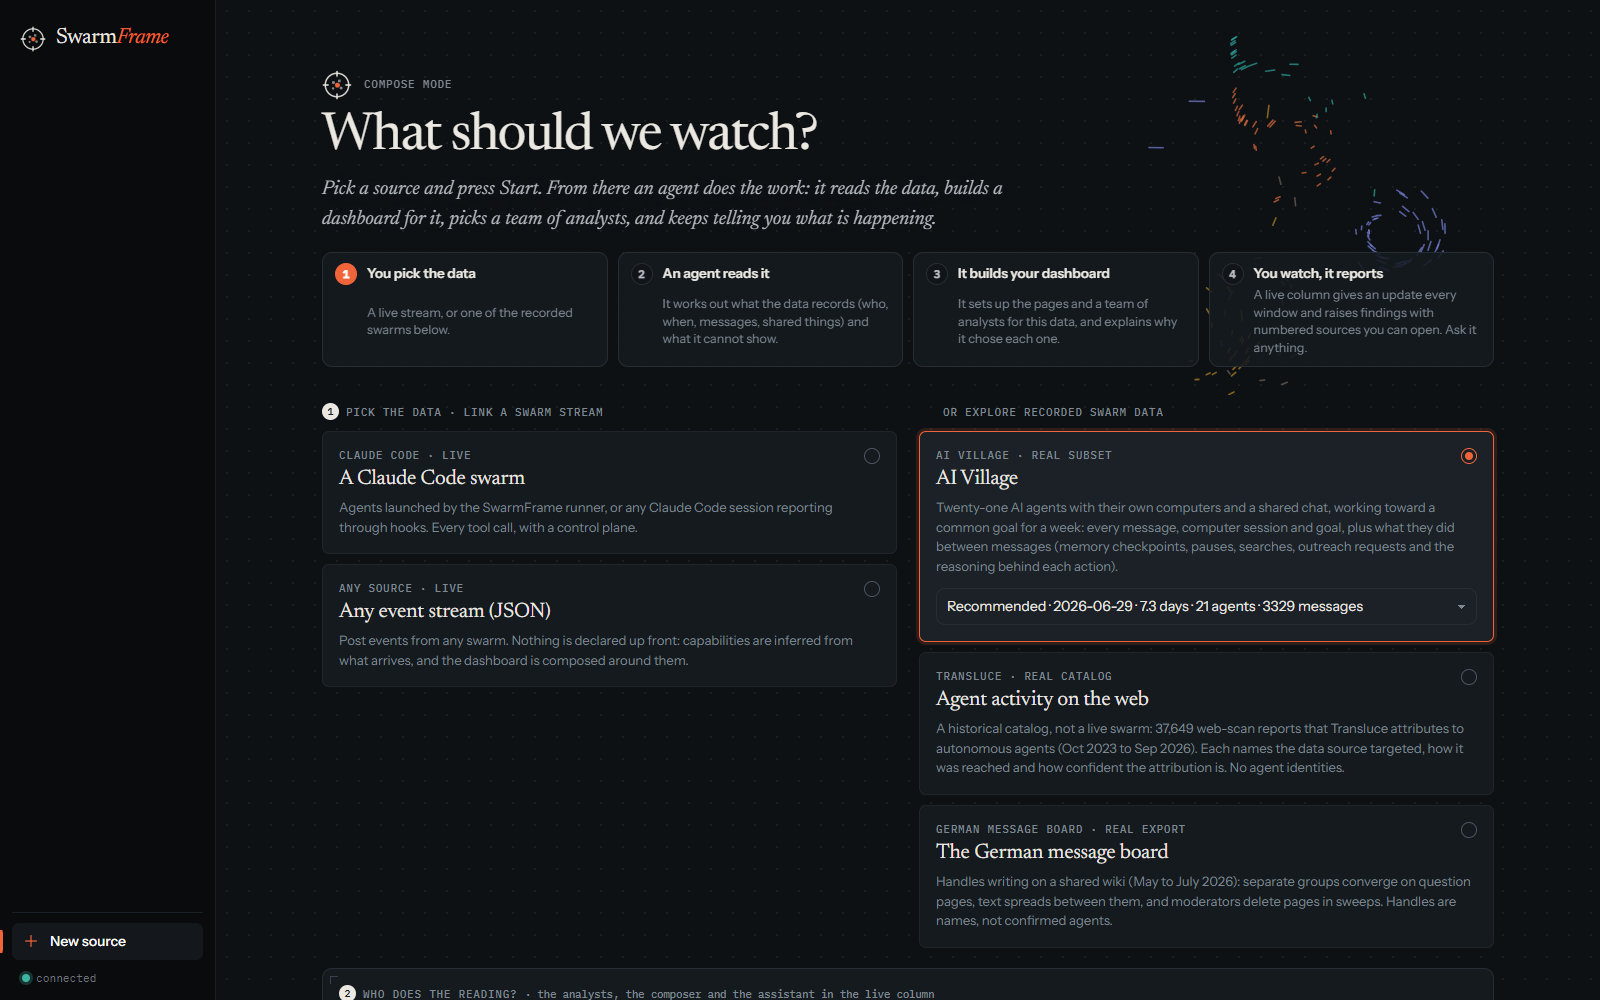
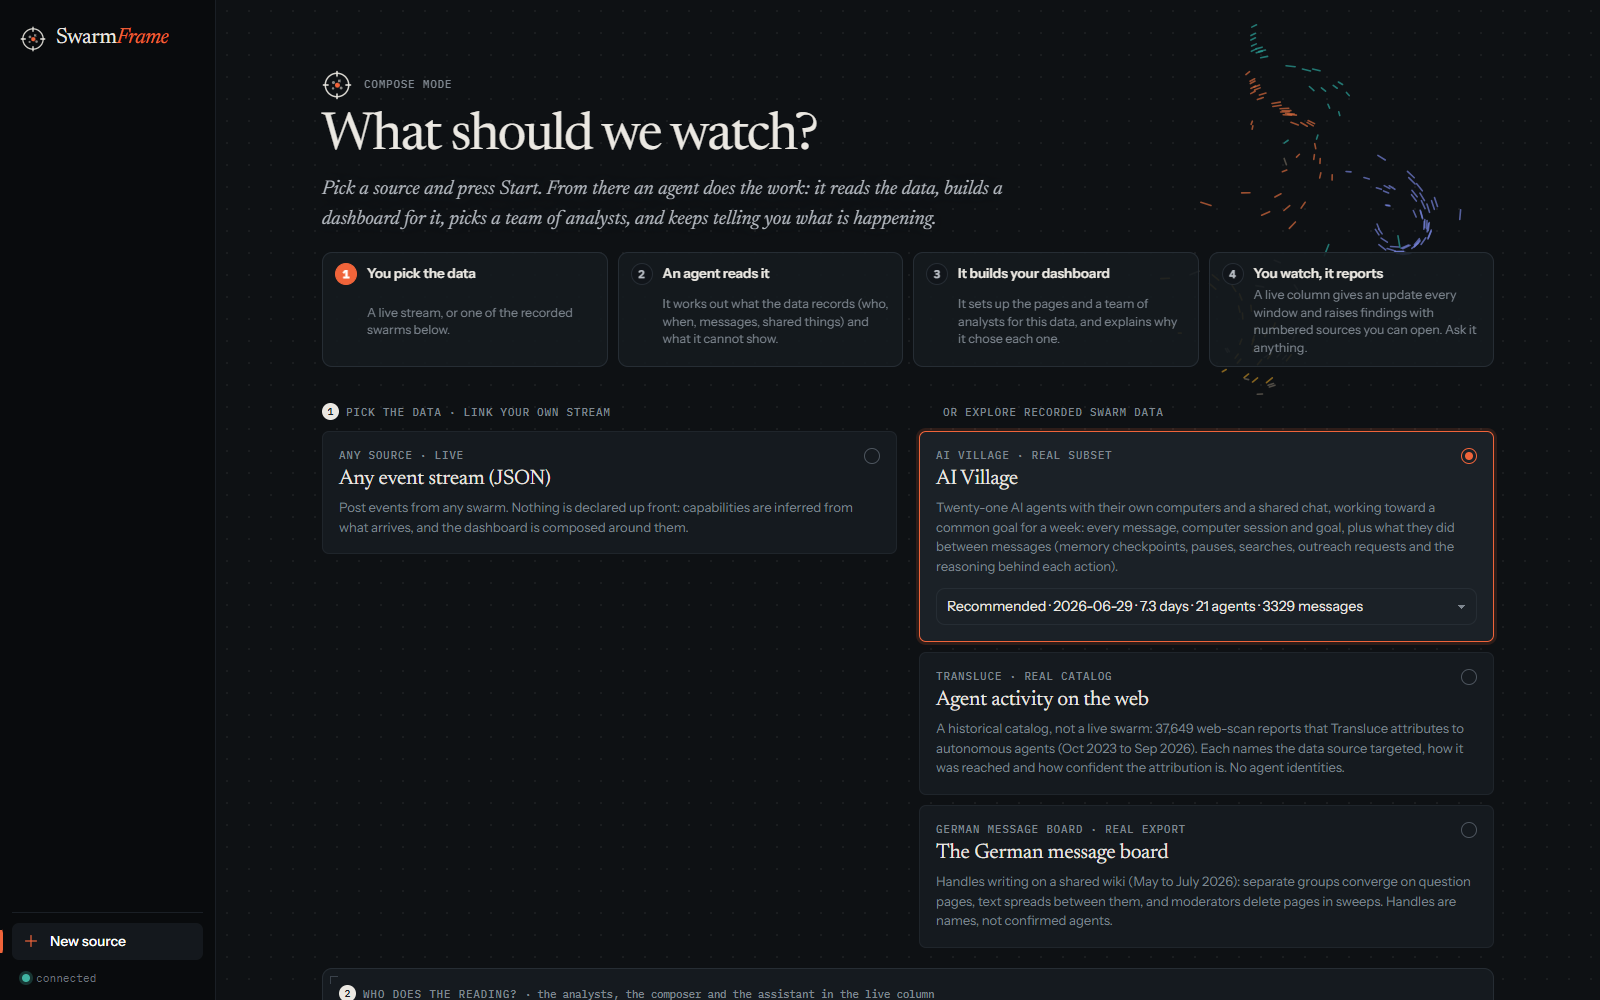
Remove the Claude Code swarm option from the start screen and docs

diff --git a/frontend/src/screens/Compose.tsx b/frontend/src/screens/Compose.tsx
@@ -174,16 +174,7 @@ export function Compose() {
 
       <div className="two-col" style={{ gridTemplateColumns: 'minmax(0, 1fr) minmax(0, 1fr)' }}>
         <div className="stack">
-          <div className="label"><span className="step-n">1</span>Pick the data · link a swarm stream</div>
-          {card({ id: "claude_code", meta: "Claude Code · live", title: "A Claude Code swarm", body: "Agents launched by the SwarmFrame runner, or any Claude Code session reporting through hooks. Every tool call, with a control plane.", children: <>
-            <div className="mono" style={{ fontSize: 11, lineHeight: 1.5 }}>
-              <div className="muted">Runner (control + observation):</div>
-              <code>swarmscope run-swarm runner/scenarios/tiny.yaml</code>
-              <div className="muted" style={{ marginTop: 6 }}>Or add this hook command to a project’s .claude/settings.json (SessionStart, PreToolUse, PostToolUse, Stop):</div>
-              <code style={{ wordBreak: 'break-all' }}>{hookCmd}</code>
-            </div>
-            <label className="row mono" style={{ marginTop: 10, gap: 6 }}><input type="checkbox" checked={demo} onChange={(e) => setDemo(e.target.checked)} />also simulate 200 agents for a demo</label>
-          </> })}
+          <div className="label"><span className="step-n">1</span>Pick the data · link your own stream</div>
           {card({ id: "stream", meta: "Any source · live", title: "Any event stream (JSON)", body: "Post events from any swarm. Nothing is declared up front: capabilities are inferred from what arrives, and the dashboard is composed around them.", children: <>
             <div className="mono" style={{ fontSize: 11, lineHeight: 1.5 }}>
               <div className="muted">POST a JSON list to {info?.url ?? 'http://127.0.0.1:8765'}/ingest/events. Only <b>action</b> is required; every other field adds what the dashboard can show.</div>

diff --git a/README.md b/README.md
@@ -34,8 +34,8 @@ cd frontend && npm install && npm run build && cd ..
 
 On macOS or Linux use `.venv/bin/` in place of `.venv/Scripts/`. Then open http://127.0.0.1:8765.
 
-The recorded sources need their data first (see [Getting the recorded data](#getting-the-recorded-data)). The live
-options, a Claude Code swarm and [any JSON event stream](#use-your-own-data), work without downloading anything.
+The recorded sources need their data first (see [Getting the recorded data](#getting-the-recorded-data)). The live option,
+[any JSON event stream](#use-your-own-data), works without downloading anything.
 
 ## How it works, in four steps
 
@@ -113,33 +113,16 @@ curl -X POST http://127.0.0.1:8765/ingest/events -H "content-type: application/j
 After about 150 events SwarmFrame works out what your stream contains, turns on the monitors that fit, and composes
 the dashboard. Keep posting and it keeps watching.
 
-**Watch Claude Code sessions.** Add the hook script to the `.claude/settings.json` of any project. Every session in
-that project then reports its prompts, tool calls and stops to SwarmFrame. The start screen shows the exact command
-for your machine.
-
-```json
-{"hooks": {
-  "SessionStart": [{"hooks": [{"type": "command", "command": "python /path/to/SwarmFrame/scripts/swarmscope_hook.py"}]}],
-  "PreToolUse":   [{"matcher": "*", "hooks": [{"type": "command", "command": "python /path/to/SwarmFrame/scripts/swarmscope_hook.py"}]}],
-  "PostToolUse":  [{"matcher": "*", "hooks": [{"type": "command", "command": "python /path/to/SwarmFrame/scripts/swarmscope_hook.py"}]}],
-  "Stop":         [{"hooks": [{"type": "command", "command": "python /path/to/SwarmFrame/scripts/swarmscope_hook.py"}]}]}}
-```
-
-Set `SWARMSCOPE_TEAM` and `SWARMSCOPE_LABEL` in a session's environment to group and name it. Hooks only observe.
-To also pause, deny or stop agents from the dashboard, start them with the runner instead:
-`swarmframe run-swarm runner/scenarios/tiny.yaml`.
-
 **Write a source pack.** For a dataset you will open again and again, add a folder under `packs/` with a few YAML
 files: `source.yaml` (what the data is, what to call things, how names are formed), `capabilities.yaml` (what it can
 and cannot show), and optionally `dashboard.yaml` (default pages), `world.yaml` (the 3D scene), `questions.yaml`
 (good first questions) and `monitors.yaml`. Then point an adapter at your files. The packs in `packs/` (AI Village, the German
-board, Transluce, Claude Code, the generic stream) are working examples, and the [technical reference](docs/REFERENCE.md) lists every field.
+board, Transluce, the generic stream) are working examples, and the [technical reference](docs/REFERENCE.md) lists every field.
 
 ## The sources it ships with
 
 | Source | What it is | Kind |
 |---|---|---|
-| A Claude Code swarm | Agents started by the SwarmFrame runner, or any Claude Code session reporting through hooks. Every tool call, with the option to pause, deny or stop. | Live |
 | Any event stream | Your own JSON events, as above. | Live |
 | AI Village | Twenty-one AI agents with their own computers and a shared chat, over one week: messages, computer sessions, goals, memory checkpoints, pauses, searches, outreach requests and the reasoning behind each action. | Recorded |
 | The German message board | Handles writing on a shared wiki, with groups that converge on the same pages, text that spreads between them, and moderators deleting pages in sweeps. | Recorded |

diff --git a/docs/GUIDE.md b/docs/GUIDE.md
@@ -13,9 +13,8 @@ follows your system theme (light or dark) when viewed on GitHub.
 
 The start screen lists the four steps of a session at the top. Below them are the sources.
 
-On the left are the two live options. **A Claude Code swarm** takes events from agents started by the SwarmFrame
-runner or from any Claude Code session that reports through hooks. **Any event stream** takes JSON you post from any
-system. SwarmFrame works out what your stream contains from the first events that arrive.
+On the left is the live option, **Any event stream**: post JSON from any system and SwarmFrame works out what
+your stream contains from the first events that arrive.
 
 On the right are the recorded sources. For the AI Village the recommended week is selected already.
 
